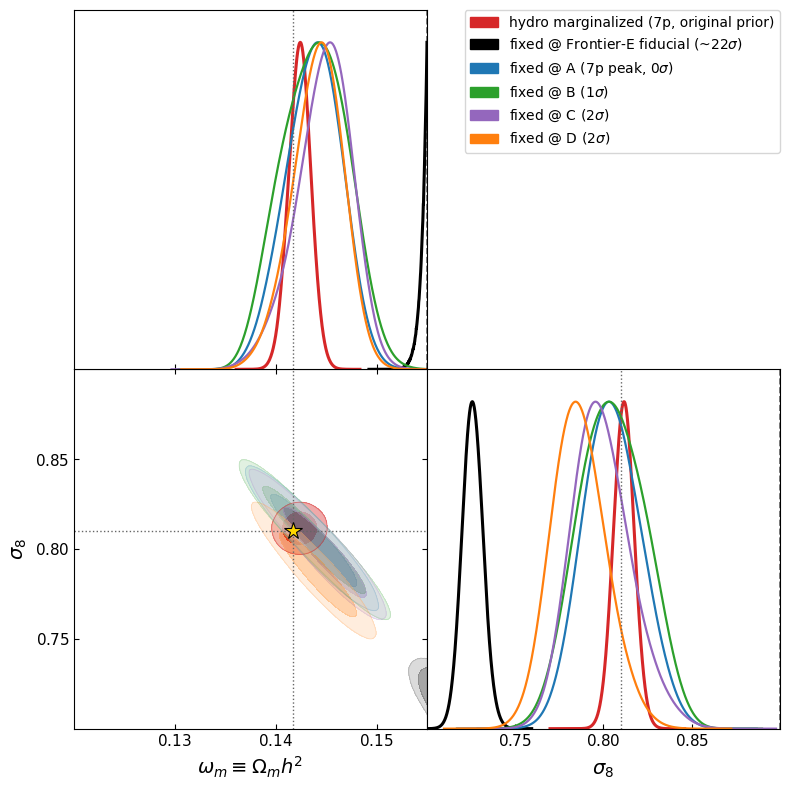
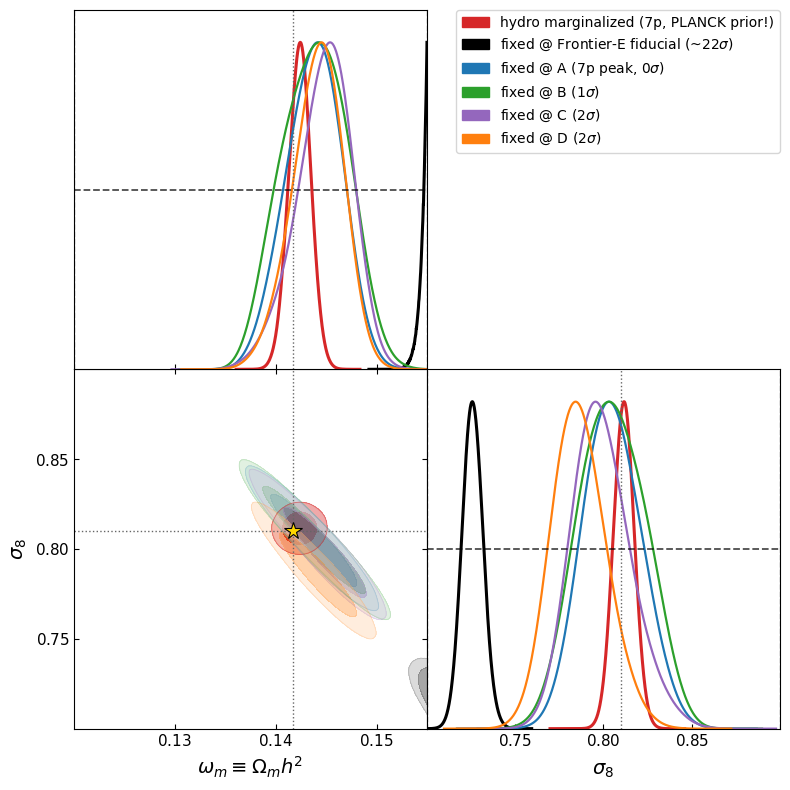
a1

Changed region(s): [[0.5772, 0.0, 0.9722, 0.1823]]

diff --git a/Inference/diagnostics/plot_fixed_points_design.py b/Inference/diagnostics/plot_fixed_points_design.py
@@ -1,0 +1,135 @@
+"""Companion to the fixed-hydro scan: WHERE do the fixed subgrid points sit in
+the full 7-parameter space, relative to the posterior they were drawn from?
+
+Shows a 7x7 corner with three layers:
+  - the experimental design (109 Latin-hypercube points)  -> light grey dots
+  - the GSMF+CGD 7p posterior (the "posterior used" to pick A-D)  -> filled contours
+  - the 5 fixed points marked in every panel:
+        A, B, C, D  (chosen from the 7p posterior, ~0/1/2/2 sigma)
+        Frontier-E  (the project fiducial, ~22 sigma away)
+
+Each point's cosmology coordinate (omega_m, sigma_8) is that run's recovered
+2p-cosmology posterior median (the subgrid coords are the fixed input values).
+This makes visible the whole story: A-D sit inside the posterior in every
+dimension; Frontier-E is a gross outlier in M_seed and v_kin (and lands at
+anomalously low sigma_8).
+
+Output (this directory): fixed_points_design.png
+"""
+import os
+import sys
+import numpy as np
+import yaml
+import matplotlib
+matplotlib.use('Agg')
+import matplotlib.pyplot as plt
+from getdist import plots as gd_plots
+from getdist import MCSamples
+
+HERE = os.path.dirname(os.path.abspath(__file__))
+INFER = os.path.dirname(HERE)
+RES = os.path.join(INFER, 'results')
+CFG = os.path.join(INFER, 'configs')
+sys.path.insert(0, os.path.join(INFER, '..', 'codes'))
+from cosmo_hydro_emu.load_hacc import PARAM_NAME     # 7 canonical latex labels
+
+SUITE = 'GSMF_CGD'
+POST = f'{SUITE}_7p_pk'                               # the posterior A-D came from
+NAMES = ['kappa_w', 'e_w', 'M_seed', 'v_kin', 'eps_kin', 'omega_m', 'sigma_8']
+# scale factors to convert raw design columns -> scaled params (M/1e6, v/1e4, eps/1e1)
+DESIGN_SCALE = np.array([1, 1, 1e-6, 1e-4, 1e-1, 1, 1])
+
+# fixed points: (letter, config trial for subgrid, 2cosmo trial for cosmo median,
+#                color, marker)
+POINTS = [
+    ('Frontier-E', f'{SUITE}_2cosmo_pk',   f'{SUITE}_2cosmo_pk',   'k',          '*'),
+    ('A', f'{SUITE}_2cosmo_hydA', f'{SUITE}_2cosmo_hydA', 'tab:blue',   'o'),
+    ('B', f'{SUITE}_2cosmo_hydB', f'{SUITE}_2cosmo_hydB', 'tab:green',  's'),
+    ('C', f'{SUITE}_2cosmo_hydC', f'{SUITE}_2cosmo_hydC', 'tab:purple', 'D'),
+    ('D', f'{SUITE}_2cosmo_hydD', f'{SUITE}_2cosmo_hydD', 'tab:orange', 'P'),
+]
+SHORT = ['kappa_w', 'e_w', 'M_seed', 'v_kin', 'eps_kin']   # config keys (subgrid)
+
+
+def _fixed_point(cfg_trial, cosmo_trial):
+    """7D coord: subgrid from the config, cosmo = 2cosmo posterior median."""
+    with open(os.path.join(CFG, f'{cfg_trial}.yaml')) as f:
+        fp = (yaml.safe_load(f) or {}).get('fixed_params', {})
+    if fp:                                             # hydA..D / Frontier-E fixed
+        sg = [float(fp[k]) for k in SHORT]
+    else:                                              # fallback: project fiducial
+        sg = [3.0, 0.5, 0.8, 0.51, 0.13]
+    cs = np.load(os.path.join(RES, f'samples_{cosmo_trial}.npy'))
+    om, s8 = np.median(cs[:, 0]), np.median(cs[:, 1])
+    return np.array(sg + [om, s8])
+
+
+def main():
+    # posterior + design
+    post = np.load(os.path.join(RES, f'samples_{POST}.npy'))[:, :7]
+    pl = np.load(os.path.join(RES, f'params_list_{POST}.npy'),
+                 allow_pickle=True).tolist()
+    ranges = {NAMES[i]: (float(pl[i][2]), float(pl[i][3])) for i in range(7)}
+
+    design_file = os.path.join(INFER, '..', 'data', 'FinalDesign.txt')
+    design = np.loadtxt(design_file, delimiter=',', skiprows=1) * DESIGN_SCALE
+
+    pts = [( *p, _fixed_point(p[1], p[2])) for p in POINTS]
+    print('fixed points (7D, scaled):')
+    for letter, *_ , coord in pts:
+        print(f'  {letter:11s} ' + '  '.join(f'{n}={v:.3f}'
+              for n, v in zip(NAMES, coord)))
+
+    mc = MCSamples(samples=post, names=NAMES,
+                   labels=[s.strip('$') for s in PARAM_NAME], ranges=ranges,
+                   label='GSMF+CGD 7p posterior',
+                   settings={'smooth_scale_2D': 3, 'smooth_scale_1D': 3})
+
+    g = gd_plots.get_subplot_plotter(subplot_size=1.4)
+    g.settings.axes_fontsize = 9
+    g.settings.lab_fontsize = 13
+    g.settings.alpha_filled_add = 0.55
+    g.settings.num_plot_contours = 2
+    g.triangle_plot([mc], NAMES, filled=True, contour_colors=['tab:red'],
+                    param_limits=ranges)
+
+    # overlay: design scatter (2D), fixed-point markers (2D) + lines (1D)
+    for i in range(7):
+        for j in range(i + 1):
+            ax = g.subplots[i][j]
+            if ax is None:
+                continue
+            if i == j:                                 # 1D diagonal: vertical lines
+                for letter, _c, _t, color, _m, coord in pts:
+                    ax.axvline(coord[i], color=color, lw=1.6,
+                               ls='--' if letter == 'Frontier-E' else '-',
+                               alpha=0.9)
+            else:                                      # 2D panel
+                ax.scatter(design[:, j], design[:, i], s=6, c='0.75',
+                           edgecolors='none', zorder=0)
+                for letter, _c, _t, color, marker, coord in pts:
+                    ax.scatter([coord[j]], [coord[i]], s=90 if marker == '*' else 55,
+                               marker=marker, facecolor=color, edgecolor='k',
+                               linewidth=0.8, zorder=10)
+
+    # legend (proxy handles)
+    handles = [plt.Line2D([], [], color='tab:red', lw=6, alpha=0.55,
+                          label='GSMF+CGD 7p posterior'),
+               plt.Line2D([], [], marker='o', ls='', mfc='0.75', mec='none',
+                          label='design (109 LHC points)')]
+    for letter, _c, _t, color, marker, _coord in pts:
+        handles.append(plt.Line2D([], [], marker=marker, ls='', mfc=color,
+                                  mec='k', ms=10, label=f'fixed @ {letter}'))
+    g.fig.legend(handles=handles, loc='upper right', fontsize=12,
+                 bbox_to_anchor=(0.98, 0.98))
+    g.fig.suptitle('Where the fixed subgrid points sit in the 7p parameter space\n'
+                   '(design = grey; posterior = red; cosmo coord = each run\'s '
+                   'recovered median)', y=1.02, fontsize=13)
+
+    png = os.path.join(HERE, 'fixed_points_design.png')
+    g.export(png)
+    print(f'\nwrote {png}')
+
+
+if __name__ == '__main__':
+    main()

diff --git a/Inference/diagnostics/check_fixed_hydro_scan_wide.py b/Inference/diagnostics/check_fixed_hydro_scan_wide.py
@@ -34,10 +34,13 @@ NAMES, LABELS, FID = base.NAMES, base.LABELS, base.FID
 AXIS = {'omega_m': (0.120, 0.155), 'sigma_8': (0.70, 0.90)}
 DESIGN_BOX = {'omega_m': (0.12, 0.155), 'sigma_8': (0.70, 0.90)}
 
-# (trial suffix, cols, label, color, linewidth) — 7p reference is the ORIGINAL
-# run; every fixed-hydro chain is the _wide (flat-prior) version.
+# (trial suffix, cols, label, color, linewidth). The marginalized reference is
+# resolved in main(): prefer _7p_wide (FLAT cosmo prior, matches the fixed runs);
+# fall back to _7p_pk (Planck prior) with a warning label until _7p_wide finishes.
+MARG_WIDE = ('_7p_wide', (5, 6), 'hydro marginalized (7p, flat prior)', 'tab:red', 2.2)
+MARG_PK   = ('_7p_pk',   (5, 6), 'hydro marginalized (7p, PLANCK prior!)', 'tab:red', 2.2)
 SPECS = [
-    ('_7p_pk',             (5, 6), 'hydro marginalized (7p, original prior)', 'tab:red',    2.2),
+    MARG_WIDE,   # replaced with MARG_PK in main() if _7p_wide isn't on disk yet
     ('_2cosmo_wide',       (0, 1), 'fixed @ Frontier-E fiducial (~22$\\sigma$)', 'k',      2.2),
     ('_2cosmo_hydA_wide',  (0, 1), 'fixed @ A (7p peak, 0$\\sigma$)',    'tab:blue',   1.6),
     ('_2cosmo_hydB_wide',  (0, 1), 'fixed @ B (1$\\sigma$)',             'tab:green',  1.6),
@@ -48,8 +51,14 @@ SPECS = [
 
 def main():
     print('=== fixed-hydro scan (WIDE flat prior over design box) ===')
+    # Consistent reference: use the flat-prior 7p run if it exists, else fall back
+    # to the Planck-prior 7p (flagged) so the plot still renders while 7p_wide runs.
+    specs = list(SPECS)
+    if not os.path.exists(os.path.join(base.RES, f'samples_{SUITE}_7p_wide.npy')):
+        print('  (7p_wide not on disk yet -> using 7p_pk Planck reference for now)')
+        specs[0] = MARG_PK
     loaded = []
-    for suf, cols, label, color, lw in SPECS:
+    for suf, cols, label, color, lw in specs:
         trial = f'{SUITE}{suf}'
         r = base._load(trial, cols)
         if r is None:
@@ -78,11 +87,16 @@ def main():
                     param_limits=AXIS, legend_loc='upper right')
 
     ax_om, ax_s8, ax_2d = g.subplots[0, 0], g.subplots[1, 1], g.subplots[1, 0]
-    # flat prior: mark the design-box edges instead of a Gaussian curve
+    # flat prior: a horizontal dashed line across the design box (constant density)
+    # plus the box edges marking its support.
     for ax, key in ((ax_om, 'omega_m'), (ax_s8, 'sigma_8')):
         ax.axvline(FID[key], color='0.4', ls=':', lw=1.0)
-        for edge in DESIGN_BOX[key]:
-            ax.axvline(edge, color='k', ls='--', lw=1.2, alpha=0.6)
+        lo, hi = DESIGN_BOX[key]
+        top = ax.get_ylim()[1]
+        ax.plot([lo, hi], [0.5 * top, 0.5 * top], color='k', ls='--', lw=1.3,
+                alpha=0.7)                       # flat prior (uniform) density
+        for edge in (lo, hi):
+            ax.axvline(edge, color='k', ls='--', lw=1.0, alpha=0.4)
     ax_2d.axvline(FID['omega_m'], color='0.4', ls=':', lw=1.0)
     ax_2d.axhline(FID['sigma_8'], color='0.4', ls=':', lw=1.0)
     ax_2d.plot([FID['omega_m']], [FID['sigma_8']], marker='*', ms=13, mfc='gold',
